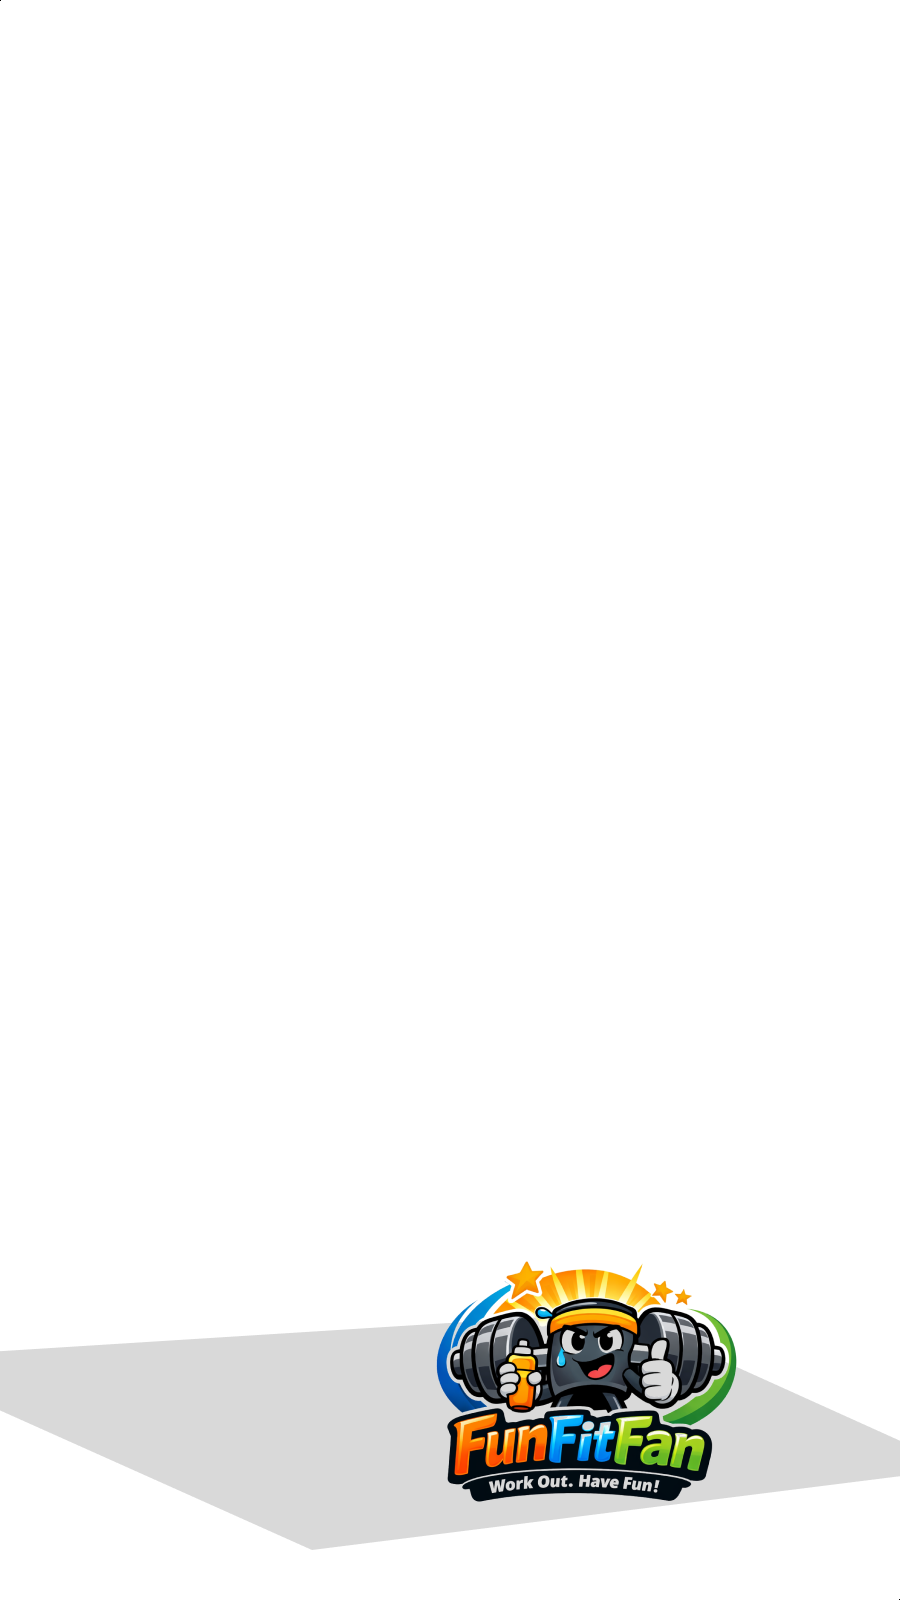
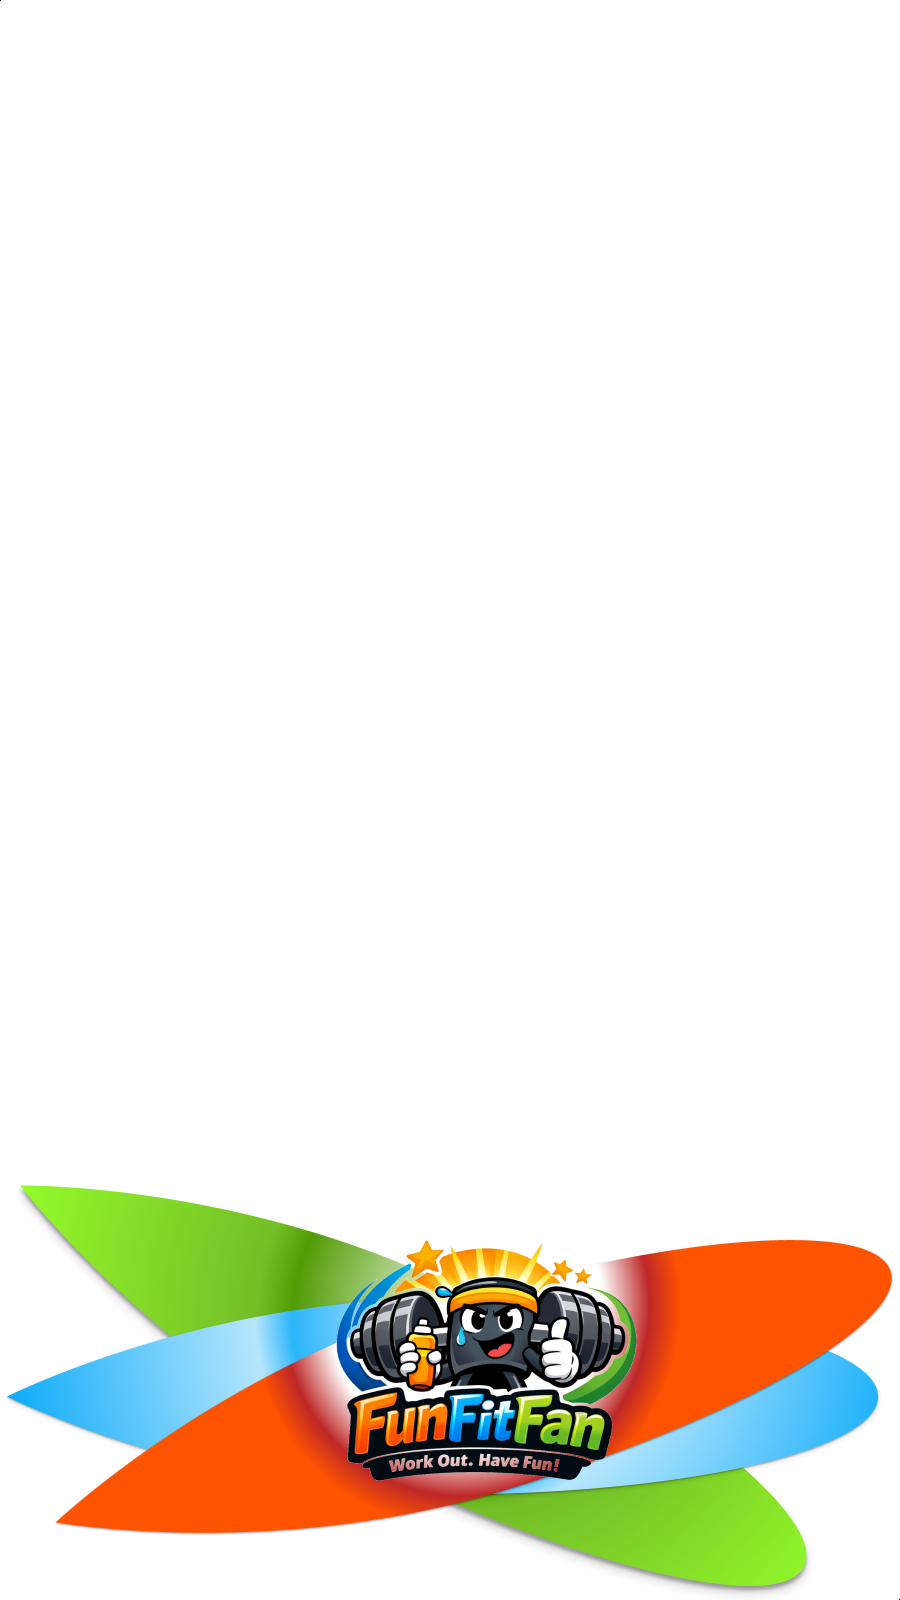
feat(fff): DynaPuff result line on composite card
- composite-framed-selfie: Google Font DynaPuff, top-centered single line
  scaled to width, no bottom bar; light stroke for legibility.
- Update public/fff/fff_frame.png.

Made-with: Cursor

Changed region(s): [[0.0, 0.7188, 1.0, 1.0]]

diff --git a/components/funfitfan/composite-framed-selfie.ts b/components/funfitfan/composite-framed-selfie.ts
@@ -1,7 +1,37 @@
 /**
- * Client-only: build FunFitFan share image = selfie + frame PNG + text lines (canvas).
+ * Client-only: build FunFitFan share image = selfie + frame PNG + text (canvas).
  * Call only from browser (e.g. after getUserMedia capture).
  */
+
+const DYNAPUFF_CSS =
+  'https://fonts.googleapis.com/css2?family=DynaPuff:wght@400;600;700&display=swap';
+
+let dynaPuffLoadPromise: Promise<void> | null = null;
+
+async function ensureDynaPuffLoaded(): Promise<void> {
+  if (typeof document === 'undefined') return;
+  if (dynaPuffLoadPromise) return dynaPuffLoadPromise;
+
+  dynaPuffLoadPromise = (async () => {
+    const id = 'fff-dynapuff-font';
+    if (!document.getElementById(id)) {
+      const link = document.createElement('link');
+      link.id = id;
+      link.rel = 'stylesheet';
+      link.href = DYNAPUFF_CSS;
+      document.head.appendChild(link);
+    }
+    await document.fonts.ready;
+    try {
+      await document.fonts.load('700 96px DynaPuff');
+      await document.fonts.load('600 64px DynaPuff');
+    } catch {
+      /* continue with fallback metrics */
+    }
+  })();
+
+  return dynaPuffLoadPromise;
+}
 
 function loadImage(src: string): Promise<HTMLImageElement> {
   return new Promise((resolve, reject) => {
@@ -16,13 +46,15 @@ function loadImage(src: string): Promise<HTMLImageElement> {
 /**
  * @param selfieDataUrl camera result (e.g. image/jpeg from canvas / getUserMedia)
  * @param frameImageUrl frame asset URL (imgbb, same-origin or CORS-enabled)
- * @param lines first line usually activity (e.g. "Running"), second result text
+ * @param lines first line usually activity (e.g. "Running"), second result text — rendered as one centered line
  */
 export async function compositeFramedSelfieWithText(
   selfieDataUrl: string,
   frameImageUrl: string,
   lines: string[]
 ): Promise<string> {
+  await ensureDynaPuffLoaded();
+
   const [photoImg, frameImg] = await Promise.all([loadImage(selfieDataUrl), loadImage(frameImageUrl)]);
 
   const maxDimension = 2048;
@@ -43,42 +75,41 @@ export async function compositeFramedSelfieWithText(
   ctx.drawImage(photoImg, 0, 0, canvas.width, canvas.height);
   ctx.drawImage(frameImg, 0, 0, canvas.width, canvas.height);
 
-  const pad = Math.round(Math.min(canvas.width, canvas.height) * 0.04);
-  const barH = Math.round(canvas.height * 0.22);
-  ctx.fillStyle = 'rgba(0,0,0,0.55)';
-  ctx.fillRect(0, canvas.height - barH, canvas.width, barH);
+  const parts = lines.map((l) => (typeof l === 'string' ? l.trim() : '')).filter(Boolean);
+  const text = parts.join(' \u2014 ');
 
-  const primary = (lines[0] || '').trim();
-  const secondary = (lines[1] || '').trim();
-  const titlePx = Math.max(18, Math.round(canvas.width * 0.045));
-  const bodyPx = Math.max(14, Math.round(canvas.width * 0.032));
-  const fontTitle = `600 ${titlePx}px system-ui, -apple-system, sans-serif`;
-  const fontBody = `400 ${bodyPx}px system-ui, -apple-system, sans-serif`;
+  if (text) {
+    const padX = Math.round(canvas.width * 0.04);
+    const padY = Math.round(canvas.height * 0.028);
+    const maxTextWidth = canvas.width - padX * 2;
 
-  ctx.fillStyle = '#ffffff';
-  ctx.textBaseline = 'top';
-  let y = canvas.height - barH + pad;
-  if (primary) {
-    ctx.font = fontTitle;
-    ctx.fillText(primary, pad, y);
-    y += Math.round(titlePx * 1.35);
-  }
-  if (secondary) {
-    ctx.font = fontBody;
-    const words = secondary.split(/\s+/);
-    let line = '';
-    const maxW = canvas.width - pad * 2;
-    for (const word of words) {
-      const test = line ? `${line} ${word}` : word;
-      if (ctx.measureText(test).width > maxW && line) {
-        ctx.fillText(line, pad, y);
-        y += Math.round(bodyPx * 1.25);
-        line = word;
-      } else {
-        line = test;
-      }
+    let fontSize = Math.min(Math.floor(canvas.height * 0.13), Math.floor(canvas.width * 0.09));
+    const minFont = 10;
+    const fontFamily = 'DynaPuff, cursive, system-ui, sans-serif';
+
+    const setFont = (px: number) => {
+      ctx.font = `700 ${px}px ${fontFamily}`;
+    };
+
+    setFont(fontSize);
+    while (fontSize > minFont && ctx.measureText(text).width > maxTextWidth) {
+      fontSize -= 1;
+      setFont(fontSize);
     }
-    if (line) ctx.fillText(line, pad, y);
+
+    const x = canvas.width / 2;
+    const y = padY;
+    ctx.textAlign = 'center';
+    ctx.textBaseline = 'top';
+
+    ctx.lineJoin = 'round';
+    ctx.miterLimit = 2;
+    ctx.strokeStyle = 'rgba(0,0,0,0.35)';
+    ctx.lineWidth = Math.max(1, Math.ceil(fontSize * 0.07));
+    ctx.strokeText(text, x, y);
+
+    ctx.fillStyle = '#ffffff';
+    ctx.fillText(text, x, y);
   }
 
   return canvas.toDataURL('image/jpeg', 0.88);
